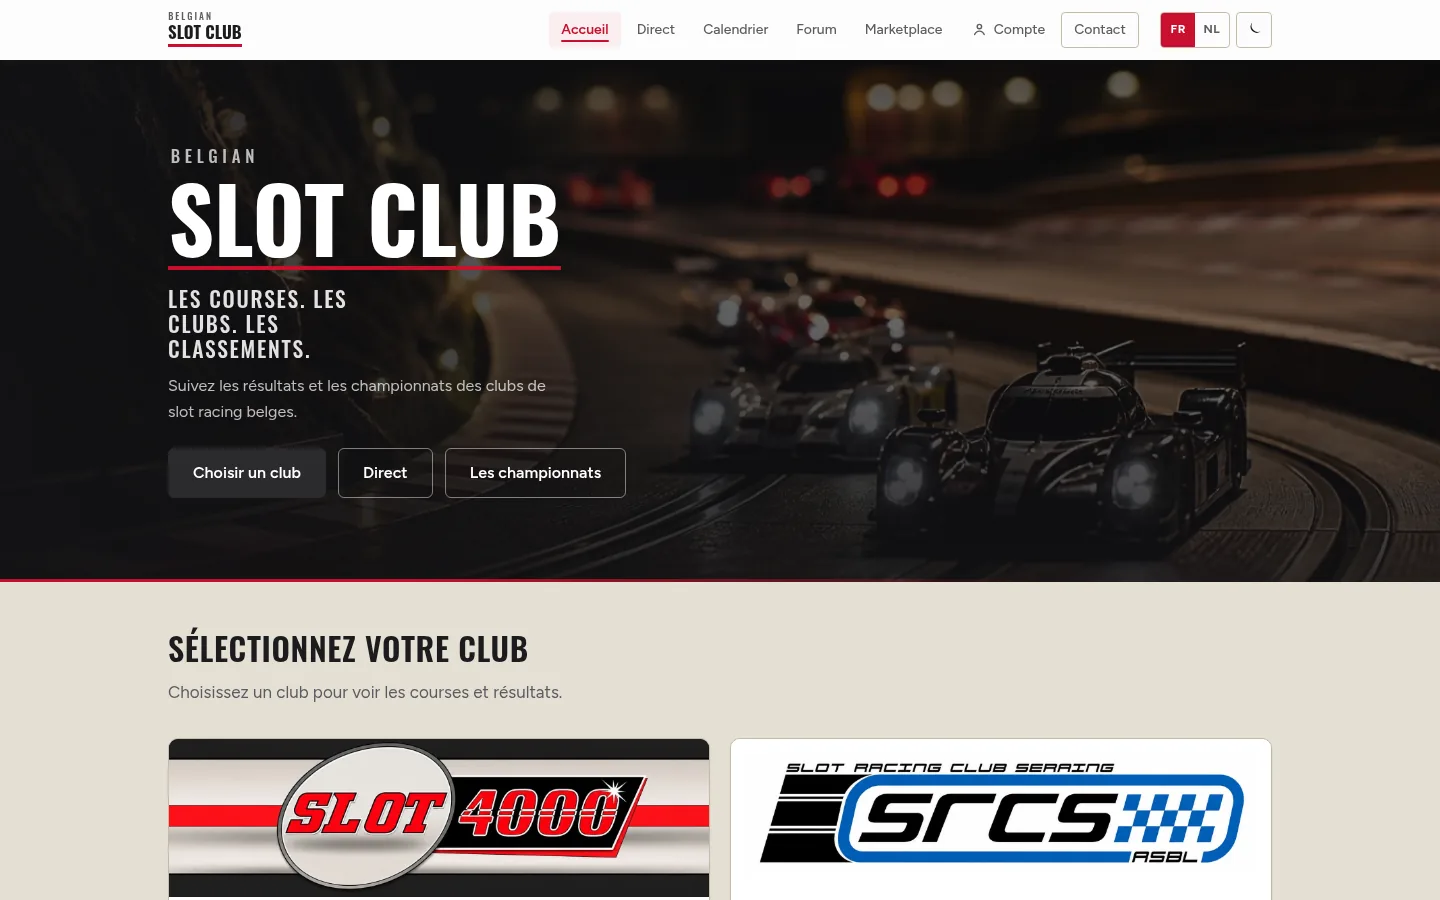
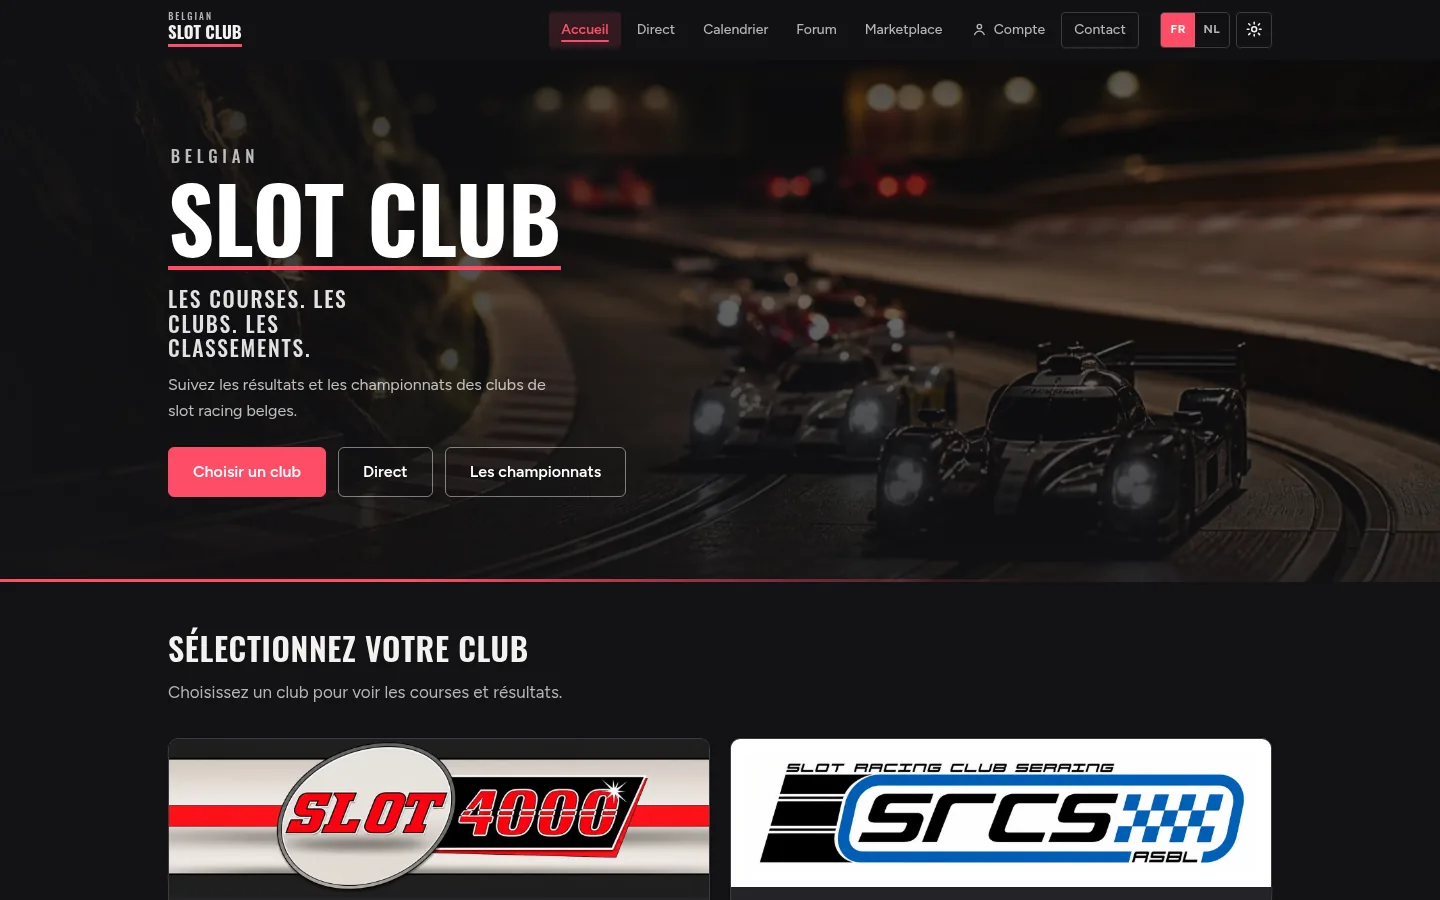
Mettre à jour le portfolio avec les vraies captures d'écran
- Ajouter les 3 captures de Belgian Slot Club en mode sombre (accueil, championnat, calendrier)
- Ajouter les 2 captures d'Artisan Pro (recettes, accueil)
- Ajouter les 2 captures de BaladeVélo (accueil, parcours)
- Ajouter les 2 captures du Générateur de QR codes (accueil, généré)
- Ajouter index.html, styles.css, script.js mis à jour
- Ajouter les fichiers de configuration (.nojekyll, 404.html, robots.txt, favicon.svg)
- Ajouter le CV PDF et la photo de profil

diff --git a/index.html b/index.html
@@ -122,7 +122,7 @@
                 <img src="assets/screenshots/bsc-calendrier.webp" width="1440" height="1400" alt="Calendrier commun des clubs, prochain événement et export vers Google, Apple ou fichier .ics">
               </button>
             </div>
-            <p class="shot-caption">Captures réelles de belgianslotclub.com — cliquez pour agrandir.</p>
+            <p class="shot-caption">Captures réelles de belgianslotclub.com, en mode sombre — cliquez pour agrandir.</p>
           </div>
         </article>
 
@@ -162,12 +162,15 @@
               <span class="pill-muted pill">Démo / code sur demande</span>
             </div>
           </div>
-          <figure class="diagram-panel">
-            <img src="assets/diagrams/artisan-pro.svg" width="840" height="520" alt="Schéma d’architecture d’Artisan Pro : interface React, API NestJS, Prisma et PostgreSQL">
-            <figcaption>
-              <strong>Schéma d’architecture</strong> — l’interface n’est pas publique. Une capture d’écran pourra remplacer ce schéma dès qu’elle sera disponible. Démo sur demande.
-            </figcaption>
-          </figure>
+          <div class="media">
+            <button class="shot shot-main" type="button" data-gallery="artisan" data-index="0" aria-label="Agrandir l’écran Recettes et marges d’Artisan Pro">
+              <img src="assets/screenshots/artisan-pro-recettes.webp" width="1440" height="900" alt="Écran Recettes d’Artisan Pro : liste des recettes avec coût de revient, prix de vente, marge et rentabilité">
+            </button>
+            <button class="shot" type="button" data-gallery="artisan" data-index="1" aria-label="Agrandir le tableau de bord Accueil d’Artisan Pro">
+              <img src="assets/screenshots/artisan-pro-accueil.webp" width="1440" height="900" alt="Tableau de bord Accueil d’Artisan Pro : production du jour, livraisons, besoins d’achat, alertes et actions rapides">
+            </button>
+            <p class="shot-caption">Captures réelles de l’application — cliquez pour agrandir. Démo / code sur demande.</p>
+          </div>
         </article>
 
         <article class="project" id="baladevelo">
@@ -205,12 +208,15 @@
               <span class="pill-muted pill">Démo / code sur demande</span>
             </div>
           </div>
-          <figure class="diagram-panel">
-            <img src="assets/diagrams/baladevelo.svg" width="840" height="520" alt="Schéma fonctionnel de BaladeVélo : départ, critères, routage OSRM et export GPX">
-            <figcaption>
-              <strong>Schéma fonctionnel</strong> — illustration, pas une capture de l’application. Une vraie capture d’écran pourra la remplacer. Démo sur demande.
-            </figcaption>
-          </figure>
+          <div class="media media-phones">
+            <button class="shot shot-phone" type="button" data-gallery="balade" data-index="0" aria-label="Agrandir l’écran de création de balade">
+              <img src="assets/screenshots/balade-accueil.webp" width="780" height="1688" alt="Écran d’accueil de BaladeVélo : choix du lieu de départ, de la distance et du type de terrain">
+            </button>
+            <button class="shot shot-phone" type="button" data-gallery="balade" data-index="1" aria-label="Agrandir la boucle générée sur la carte">
+              <img src="assets/screenshots/balade-parcours.webp" width="780" height="1688" alt="Boucle mixte de 31 km générée depuis Liège, avec carte, dénivelé, export GPX et ouverture dans Plans">
+            </button>
+            <p class="shot-caption">Captures réelles de l’application (Expo / web) — cliquez pour agrandir. Démo de l’app native sur demande.</p>
+          </div>
         </article>
 
         <article class="project" id="generateur-qr">
@@ -245,12 +251,15 @@
               <span class="pill-muted pill">Démo / code sur demande</span>
             </div>
           </div>
-          <figure class="diagram-panel">
-            <img src="assets/diagrams/qr-generator.svg" width="840" height="520" alt="Schéma du générateur de QR codes : saisie locale, bridge sécurisé, export PNG et packaging">
-            <figcaption>
-              <strong>Schéma fonctionnel</strong> — illustration, pas une capture de l’application. Une vraie capture d’écran pourra la remplacer. Démo sur demande.
-            </figcaption>
-          </figure>
+          <div class="media">
+            <button class="shot shot-main" type="button" data-gallery="qr" data-index="0" aria-label="Agrandir l’écran d’accueil du générateur de QR codes">
+              <img src="assets/screenshots/qr-accueil.webp" width="1100" height="820" alt="Interface du générateur de QR codes, prête à saisir un texte ou une URL">
+            </button>
+            <button class="shot shot-main" type="button" data-gallery="qr" data-index="1" aria-label="Agrandir le QR code généré">
+              <img src="assets/screenshots/qr-genere.webp" width="1100" height="820" alt="QR code généré localement pour l’adresse https://thibaut-sudo.github.io">
+            </button>
+            <p class="shot-caption">Captures réelles de l’interface de l’application — cliquez pour agrandir. Démo / code sur demande.</p>
+          </div>
         </article>
       </div>
     </section>

diff --git a/script.js b/script.js
@@ -15,39 +15,79 @@
     });
   }
 
-  const gallery = [
-    {
-      src: "assets/screenshots/bsc-accueil.webp",
-      alt: "Page d’accueil de Belgian Slot Club, avec le hero et la sélection des clubs Slot 4000 et SRCS",
-      caption: "Belgian Slot Club — accueil",
-    },
-    {
-      src: "assets/screenshots/bsc-championnat.webp",
-      alt: "Classement général du championnat Slot 4000, saison 2026, catégorie Groupe 5",
-      caption: "Belgian Slot Club — classement championnat (Slot 4000)",
-    },
-    {
-      src: "assets/screenshots/bsc-calendrier.webp",
-      alt: "Calendrier commun des clubs, prochain événement et export vers Google, Apple ou fichier .ics",
-      caption: "Belgian Slot Club — calendrier et export .ics",
-    },
-  ];
+  const galleries = {
+    bsc: [
+      {
+        src: "assets/screenshots/bsc-accueil.webp",
+        alt: "Page d’accueil de Belgian Slot Club, avec le hero et la sélection des clubs Slot 4000 et SRCS, en mode sombre",
+        caption: "Belgian Slot Club — accueil (mode sombre)",
+      },
+      {
+        src: "assets/screenshots/bsc-championnat.webp",
+        alt: "Classement général du championnat Slot 4000, saison 2026, catégorie Groupe 5, en mode sombre",
+        caption: "Belgian Slot Club — classement championnat (mode sombre)",
+      },
+      {
+        src: "assets/screenshots/bsc-calendrier.webp",
+        alt: "Calendrier commun des clubs en mode sombre, prochain événement et export vers Google, Apple ou fichier .ics",
+        caption: "Belgian Slot Club — calendrier et export .ics (mode sombre)",
+      },
+    ],
+    artisan: [
+      {
+        src: "assets/screenshots/artisan-pro-recettes.webp",
+        alt: "Écran Recettes d’Artisan Pro : liste des recettes avec coût de revient, prix de vente, marge et rentabilité",
+        caption: "Artisan Pro — recettes et marges",
+      },
+      {
+        src: "assets/screenshots/artisan-pro-accueil.webp",
+        alt: "Tableau de bord Accueil d’Artisan Pro : production du jour, livraisons, besoins d’achat, alertes et actions rapides",
+        caption: "Artisan Pro — tableau de bord Accueil",
+      },
+    ],
+    balade: [
+      {
+        src: "assets/screenshots/balade-accueil.webp",
+        alt: "Écran d’accueil de BaladeVélo : choix du lieu de départ, de la distance et du type de terrain",
+        caption: "BaladeVélo — création d’une balade",
+      },
+      {
+        src: "assets/screenshots/balade-parcours.webp",
+        alt: "Boucle mixte de 31 km générée depuis Liège, avec carte, dénivelé, export GPX et ouverture dans Plans",
+        caption: "BaladeVélo — boucle générée depuis Liège",
+      },
+    ],
+    qr: [
+      {
+        src: "assets/screenshots/qr-accueil.webp",
+        alt: "Interface du générateur de QR codes, prête à saisir un texte ou une URL",
+        caption: "Générateur de QR codes — accueil",
+      },
+      {
+        src: "assets/screenshots/qr-genere.webp",
+        alt: "QR code généré localement pour l’adresse https://thibaut-sudo.github.io",
+        caption: "Générateur de QR codes — QR généré",
+      },
+    ],
+  };
 
   const lightbox = document.getElementById("lightbox");
   const image = document.getElementById("lightbox-image");
   const caption = document.getElementById("lightbox-caption");
+  let current = galleries.bsc;
   let index = 0;
   let lastFocus = null;
 
   function show(i) {
-    index = (i + gallery.length) % gallery.length;
-    const item = gallery[index];
+    index = (i + current.length) % current.length;
+    const item = current[index];
     image.src = item.src;
     image.alt = item.alt;
-    caption.textContent = item.caption + " · " + (index + 1) + " / " + gallery.length;
+    caption.textContent = item.caption + " · " + (index + 1) + " / " + current.length;
   }
 
-  function open(i) {
+  function open(name, i) {
+    current = galleries[name] || galleries.bsc;
     lastFocus = document.activeElement;
     show(i);
     lightbox.hidden = false;
@@ -61,8 +101,8 @@
     if (lastFocus && typeof lastFocus.focus === "function") lastFocus.focus();
   }
 
-  document.querySelectorAll("[data-gallery='bsc']").forEach((btn) => {
-    btn.addEventListener("click", () => open(Number(btn.dataset.index) || 0));
+  document.querySelectorAll("[data-gallery]").forEach((btn) => {
+    btn.addEventListener("click", () => open(btn.dataset.gallery, Number(btn.dataset.index) || 0));
   });
 
   lightbox.querySelector("[data-close]").addEventListener("click", close);

diff --git a/styles.css b/styles.css
@@ -351,22 +351,6 @@ a { color: var(--accent-strong); }
   font-size: 0.8rem;
   color: var(--muted);
 }
-.diagram-panel {
-  margin: 0;
-  background: var(--navy);
-  border-radius: 16px;
-  overflow: hidden;
-  border: 1px solid var(--navy-2);
-}
-.diagram-panel img { width: 100%; }
-.diagram-panel figcaption {
-  padding: 14px 16px 16px;
-  color: #94a3b8;
-  font-size: 0.85rem;
-  background: #0b1220;
-}
-.diagram-panel figcaption strong { color: #e2e8f0; font-weight: 600; }
-
 /* Skills + parcours */
 .split {
   display: grid;
@@ -566,4 +550,22 @@ a { color: var(--accent-strong); }
 @media (prefers-reduced-motion: reduce) {
   html { scroll-behavior: auto; }
   .btn, .shot img { transition: none; }
+}
+
+.media-phones {
+  grid-template-columns: 1fr 1fr;
+  align-items: start;
+}
+.media-phones .shot-caption { grid-column: 1 / -1; }
+.shot-phone {
+  background: #1a1612;
+  border-radius: 22px;
+}
+.shot-phone img {
+  aspect-ratio: 390 / 844;
+  object-fit: cover;
+  object-position: top center;
+}
+@media (max-width: 900px) {
+  .media-phones { grid-template-columns: 1fr 1fr; }
 }

diff --git a/README.md b/README.md
@@ -7,7 +7,7 @@ Site statique du portfolio, prévu pour GitHub Pages : <https://thibaut-sudo.git
 - Accueil, projets, compétences, parcours et contact
 - CV téléchargeable : `cv-thibaut-lenertz.pdf`
 - Captures d’écran réelles de [Belgian Slot Club](https://belgianslotclub.com)
-- Schémas d’architecture pour Artisan Pro, BaladeVélo et le générateur de QR codes (en attendant de vraies captures d’écran)
+- Captures d’écran réelles d’Artisan Pro, BaladeVélo et du générateur de QR codes
 
 ## Déploiement
 
